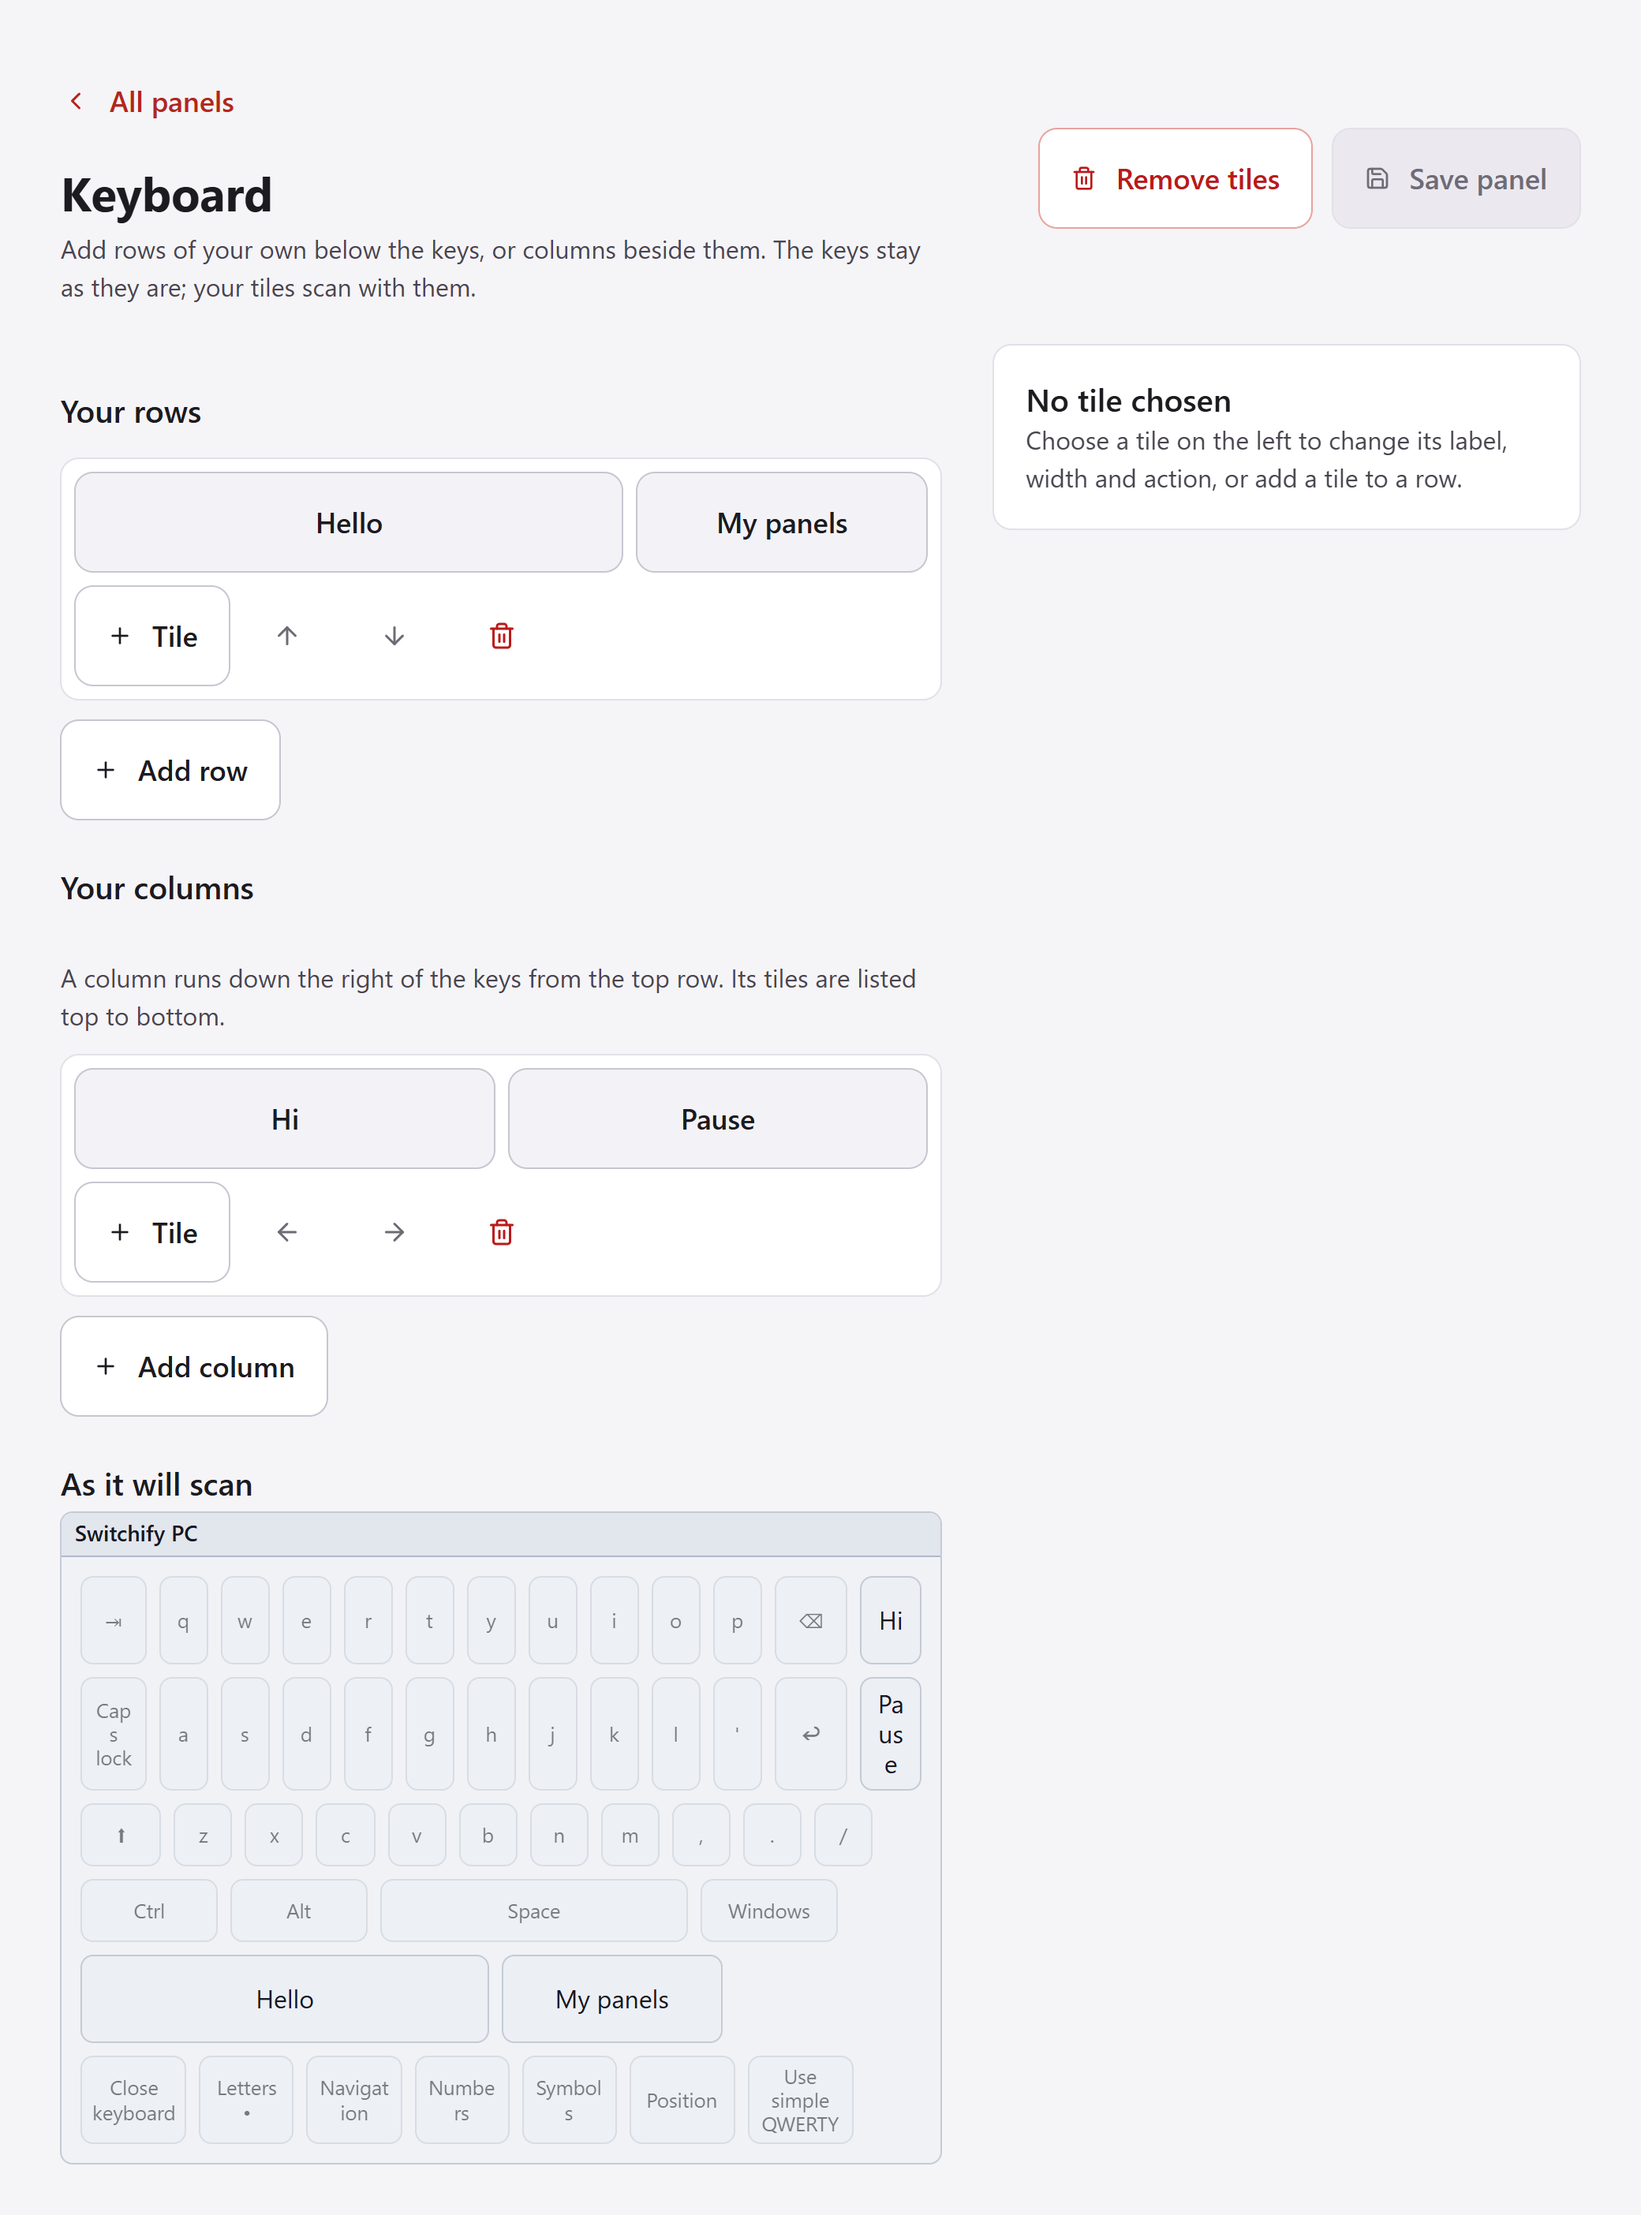
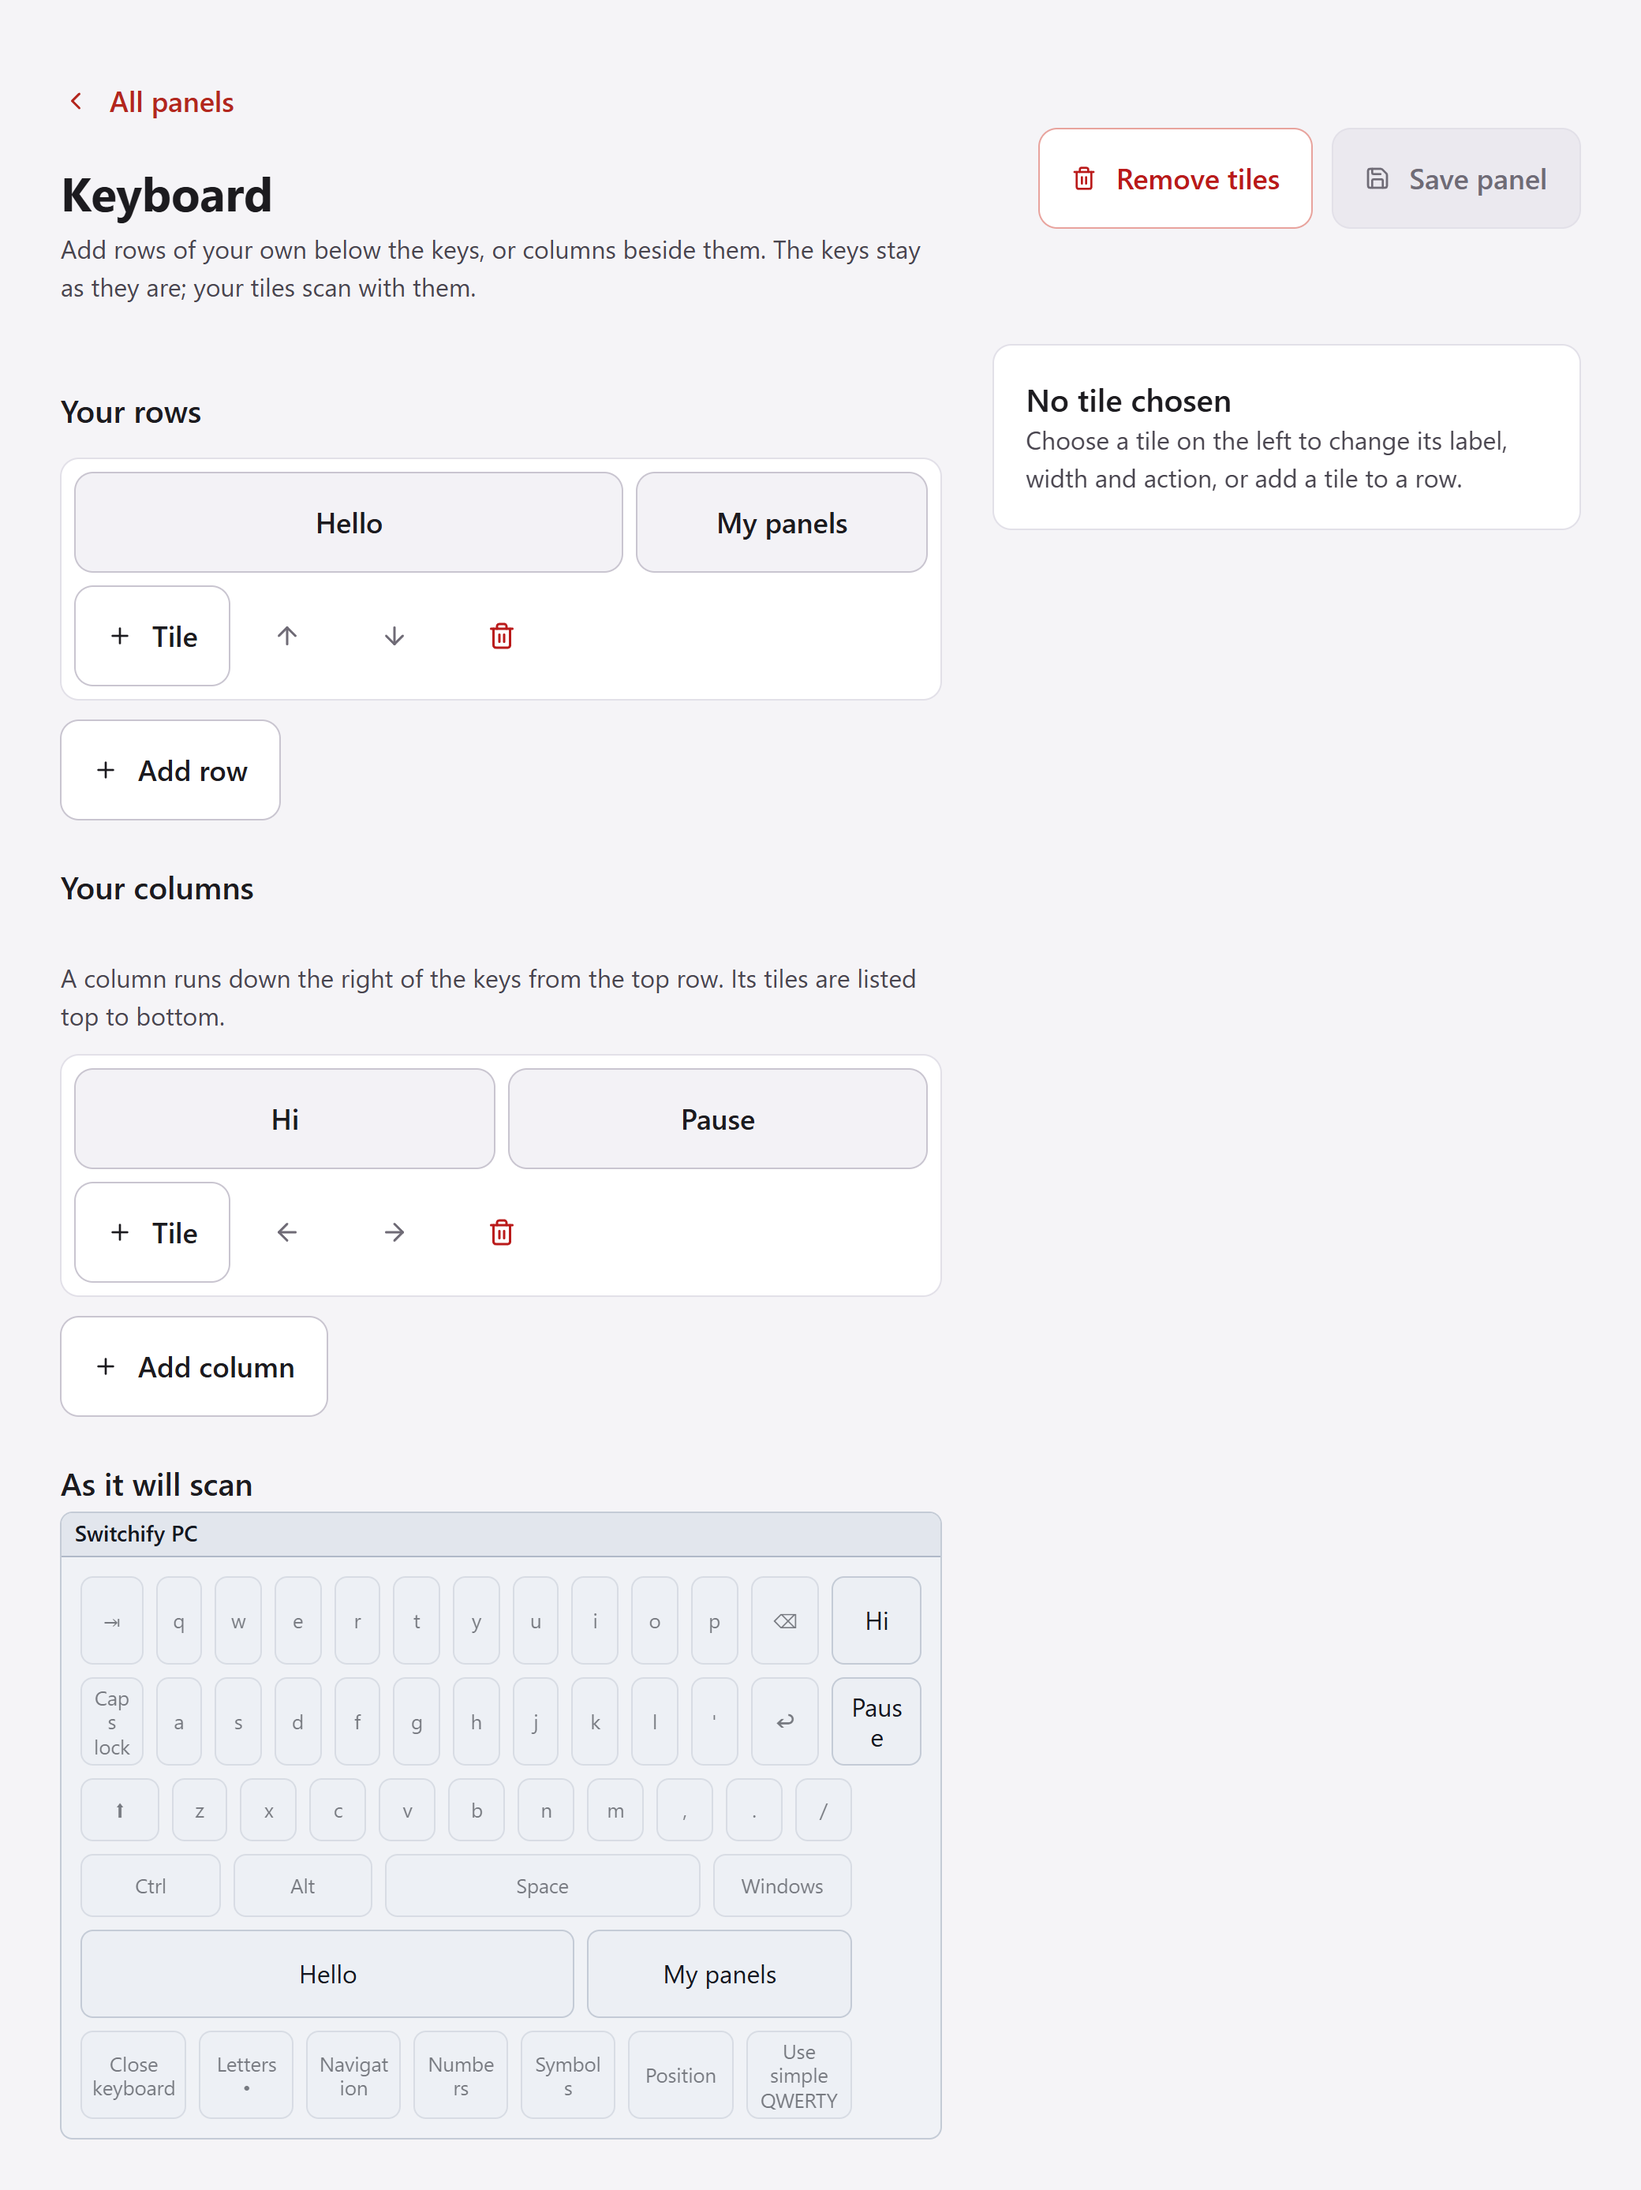
Address review: keep rows to the keys' width in the picture, leave column tiles alone when rows move, focus Add column after removing one

diff --git a/src/panels/PanelEditor.tsx b/src/panels/PanelEditor.tsx
@@ -42,6 +42,7 @@ export function PanelEditor({ panel, panels, theme, busy, error, builtin, extras
   const backRef = useRef<HTMLButtonElement>(null);
   const deleteRef = useRef<HTMLButtonElement>(null);
   const addRowRef = useRef<HTMLButtonElement>(null);
+  const addColumnRef = useRef<HTMLButtonElement>(null);
   const ids = useId();
   const dirty = JSON.stringify(draft) !== JSON.stringify(panel) || JSON.stringify(columns) !== JSON.stringify(extras?.columns ?? []);
   const problems = { ...panelProblems(draft, panels, builtin?.kind, extras !== undefined), ...(extras ? columnProblems(columns, panels, draft.id) : {}) };
@@ -58,8 +59,8 @@ export function PanelEditor({ panel, panels, theme, busy, error, builtin, extras
   const replaceIn = (lines: PanelCell[][], selection: Selection, cell: PanelCell) => lines.map((line, r) => r === selection.row ? line.map((candidate, c) => c === selection.cell ? cell : candidate) : line);
   const setCell = (selection: Selection, cell: PanelCell) => selection.column ? setColumns(replaceIn(columns, selection, cell)) : updateRows(replaceIn(draft.rows, selection, cell));
   const problemOf = (selection: Selection) => problems[selection.column ? `ctile-${selection.row}-${selection.cell}` : `tile-${selection.row}-${selection.cell}`] ?? null;
-  /** Focus goes to a row's group once the tile that had it is gone. */
-  const focusAfterRemoval = () => requestAnimationFrame(() => addRowRef.current?.focus());
+  /** Focus goes to the section's Add button once the tile that had it is gone. */
+  const focusAfterRemoval = (column = false) => requestAnimationFrame(() => (column ? addColumnRef : addRowRef).current?.focus());
 
   const addTile = (rowIndex: number) => {
     if (draft.rows[rowIndex].length >= maxTilesPerRow) return;
@@ -75,7 +76,7 @@ export function PanelEditor({ panel, panels, theme, busy, error, builtin, extras
     const lines = (selection.column ? columns : draft.rows).map((line, r) => r === selection.row ? line.filter((_, c) => c !== selection.cell) : line).filter((line) => line.length > 0);
     if (selection.column) setColumns(lines); else updateRows(lines);
     setSelected(null);
-    focusAfterRemoval();
+    focusAfterRemoval(selection.column === true);
   };
   const addColumnTile = (columnIndex: number) => {
     if (columns[columnIndex].length >= maxColumnTiles) return;
@@ -90,7 +91,7 @@ export function PanelEditor({ panel, panels, theme, busy, error, builtin, extras
   const removeColumn = (columnIndex: number) => {
     setColumns(columns.filter((_, c) => c !== columnIndex));
     setSelected(null);
-    focusAfterRemoval();
+    focusAfterRemoval(true);
   };
   const moveColumn = (columnIndex: number, direction: -1 | 1) => {
     const target = columnIndex + direction;
@@ -122,6 +123,7 @@ export function PanelEditor({ panel, panels, theme, busy, error, builtin, extras
     [rows[rowIndex], rows[target]] = [rows[target], rows[rowIndex]];
     updateRows(rows);
     // The chosen tile travels with its row, whichever of the two it is in.
+    if (selected?.column) return;
     setSelected(selected?.row === rowIndex ? { ...selected, row: target } : selected?.row === target ? { ...selected, row: rowIndex } : selected);
   };
   /** Gives the tile a new action. A label the user wrote stays; one that
@@ -211,7 +213,7 @@ export function PanelEditor({ panel, panels, theme, busy, error, builtin, extras
               </div>
               {problems[`column-${columnIndex}`] && <p className="field-error">{problems[`column-${columnIndex}`]}</p>}
             </div>)}
-            <Button className="secondary" disabled={columns.length >= maxExtraColumns} onClick={addColumn}><Plus size={16} aria-hidden="true" />Add column</Button>
+            <Button ref={addColumnRef} className="secondary" disabled={columns.length >= maxExtraColumns} onClick={addColumn}><Plus size={16} aria-hidden="true" />Add column</Button>
           </section>}
           <section className="panel-editor-picture" aria-label="Picture"><h2>As it will scan</h2><PanelPicture panel={draft} fixed={extras?.fixed} columns={extras ? columns : undefined} theme={theme} className="panel-picture-large" /></section>
         </div>

diff --git a/src/App.test.tsx b/src/App.test.tsx
@@ -694,10 +694,18 @@ describe("Switchify PC shell", () => {
     expect(saveExtras.mock.calls[0][2]).toHaveLength(1);
     expect((saveExtras.mock.calls[0][2] as unknown[][])[0]).toHaveLength(2);
     expect(await screen.findByRole("button", { name: "Mouse panel, 1 column" })).toBeInTheDocument();
-    // Two columns at most.
+    // Two columns at most. Moving a row leaves a chosen column tile where it is,
+    // and removing a column puts focus back on Add column.
     fireEvent.click(screen.getByRole("button", { name: "Mouse panel, 1 column" }));
     fireEvent.click(await screen.findByRole("button", { name: "Add column" }));
     expect(screen.getByRole("button", { name: "Add column" })).toBeDisabled();
+    fireEvent.click(screen.getByRole("button", { name: "Add row" }));
+    fireEvent.click(screen.getByRole("button", { name: "Add row" }));
+    fireEvent.click(screen.getByRole("button", { name: /^Column 2, tile 1/ }));
+    fireEvent.click(screen.getByRole("button", { name: "Move row 1 down" }));
+    expect(screen.getByRole("heading", { name: "Column 2, tile 1" })).toBeInTheDocument();
+    fireEvent.click(screen.getByRole("button", { name: "Remove column 2" }));
+    await waitFor(() => expect(screen.getByRole("button", { name: "Add column" })).toHaveFocus());
   });
 
   it("takes only a few rows below the mouse panel's keys", async () => {

diff --git a/src/panels/PanelPicture.tsx b/src/panels/PanelPicture.tsx
@@ -46,7 +46,9 @@ export function PanelPicture({ panel, fixed, columns = [], theme, title = "Switc
     <div className="panel-picture-band" style={{ background: colours.band, borderColor: colours.bandBorder }}><span>{title}</span></div>
     <div className="panel-picture-rows">
       {lines.map((line, index) => <div className="panel-picture-row" key={line.key}>
-        {line.blank ? <span className="panel-picture-spacer" style={{ flexGrow: keysWeight, flexBasis: 0 }} /> : line.keys}
+        {line.blank ? <span className="panel-picture-spacer" style={{ flexGrow: keysWeight, flexBasis: 0 }} />
+          // With columns beside them, every line keeps its keys to the keys' width so the columns line up.
+          : columns.length > 0 ? <span className="panel-picture-keys" style={{ flexGrow: keysWeight, flexBasis: 0 }}>{line.keys}</span> : line.keys}
         {columns.map((column, c) => column[index]
           ? <PictureTile key={`column-${c}`} cell={column[index]} colours={colours} width={columnWidth(column)} data-column={c + 1} />
           : <span key={`column-${c}`} className="panel-picture-spacer" style={{ flexGrow: columnWidth(column), flexBasis: 0 }} />)}

diff --git a/src/ui/app.css b/src/ui/app.css
@@ -287,6 +287,8 @@ main { min-width: 0; }
 /* A native panel's own keys: there to place the user's rows, not to read. */
 .panel-picture-tile[data-fixed] { opacity: 0.55; min-height: 22px; padding: 1px 2px; font-size: 0.8em; white-space: nowrap; }
 .panel-picture-spacer { min-width: 0; }
+.panel-picture-keys { display: flex; gap: 4px; min-width: 0; }
+.panel-picture-large .panel-picture-keys { gap: 8px; }
 .panel-picture-large { font-size: 1rem; }
 .panel-picture-large .panel-picture-tile[data-fixed] { min-height: 40px; padding: 4px 6px; white-space: normal; }
 .panel-picture-large .panel-picture-band { height: 28px; font-size: 0.875rem; }
